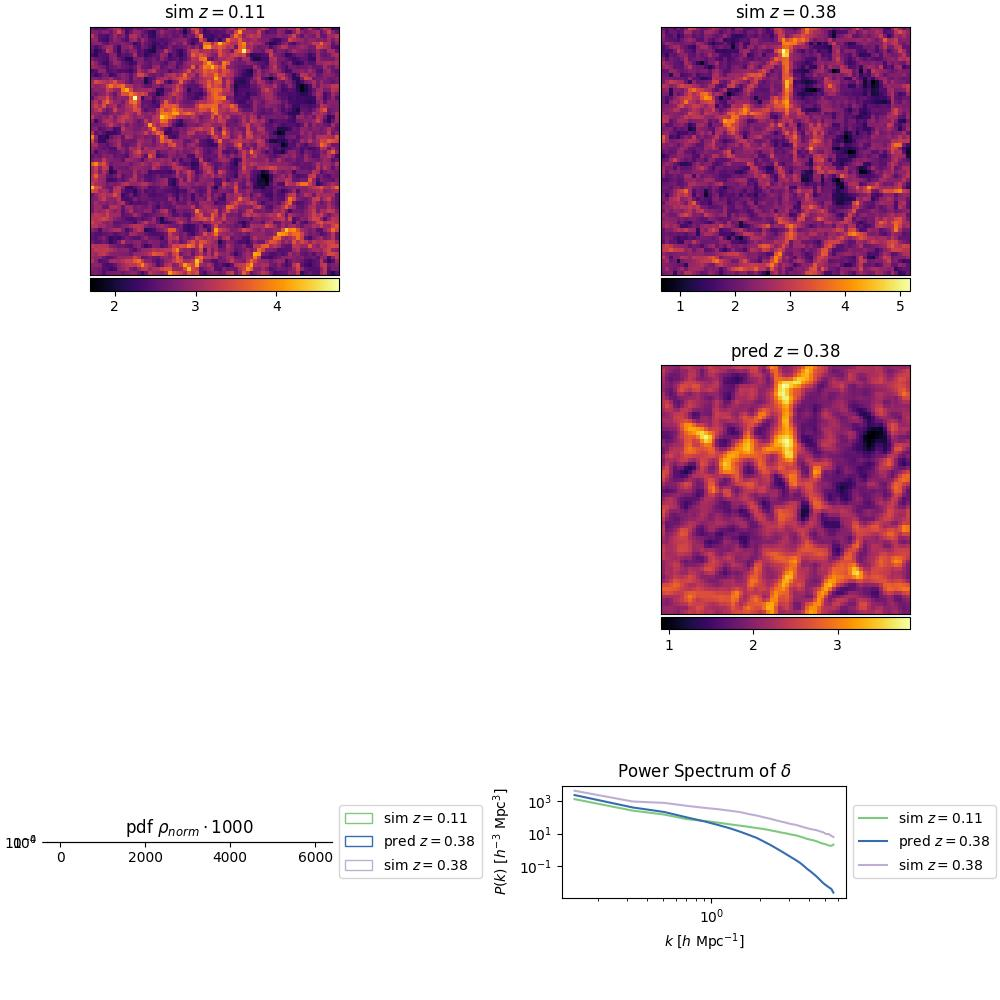
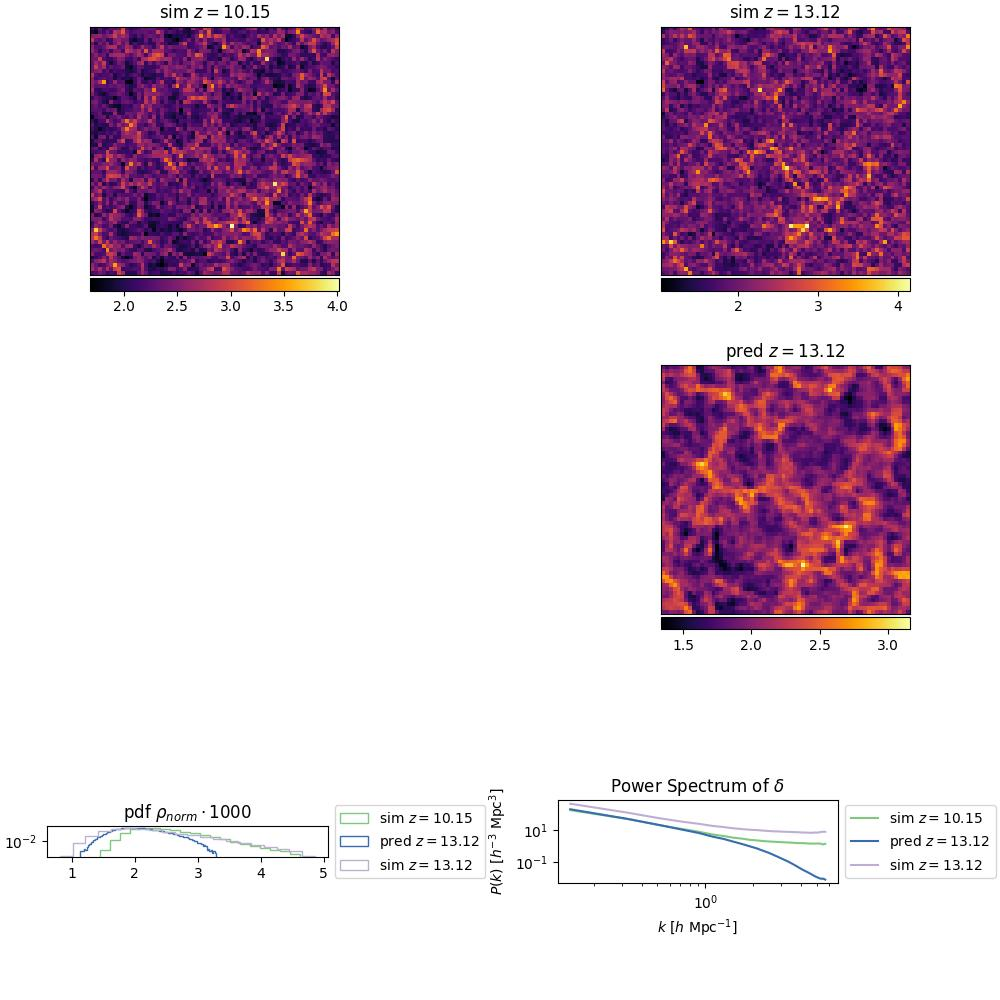
what is the model actually learning?

diff --git a/src/visualize/sequence.py b/src/visualize/sequence.py
@@ -59,7 +59,7 @@ def sequence(
         delta = compute_overdensity(rho)
 
         ax_seq = fig.add_subplot(spec_sequence[0, frame])
-        ax_seq.set_title(fr'sim $z = {to_redshift(step/100):.2f}$')
+        ax_seq.set_title(fr'sim $z = {to_redshift(step/config.total_index_steps):.2f}$')
         ax_seq.tick_params(left=False, bottom=False, labelleft=False, labelbottom=False)
 
         im_seq = ax_seq.imshow(normalized[grid_size // 2, : , :], cmap='inferno')
@@ -68,20 +68,20 @@ def sequence(
         fig.colorbar(im_seq, cax=cax, orientation='horizontal')
 
         ax_cdf.hist(
-            normalized.flatten() * 1000,
+            normalized.flatten(),
             20, 
             density=True, 
             log=True, 
             histtype="step",
             cumulative=False, 
-            label=fr'sim $z = {to_redshift(step/100):.2f}$',
+            label=fr'sim $z = {to_redshift(step/config.total_index_steps):.2f}$',
             color=colors[frame])
         
         p,k = get_power(delta[:, :, :, 0], config.box_size)
         ax_power.plot(
             k, 
             p, 
-            label=fr'sim $z = {to_redshift(step/100):.2f}$',
+            label=fr'sim $z = {to_redshift(step/config.total_index_steps):.2f}$',
             color=colors[frame])
         
         if frame < frames-1:
@@ -98,7 +98,7 @@ def sequence(
 
             ax_seq = fig.add_subplot(spec_sequence[1, frame+1])
             ax_seq.tick_params(left=False, bottom=False, labelleft=False, labelbottom=False)
-            ax_seq.set_title(fr'pred $z = {to_redshift(step/100):.2f}$')
+            ax_seq.set_title(fr'pred $z = {to_redshift(step/config.total_index_steps):.2f}$')
 
             im_seq = ax_seq.imshow(rho_pred_normalized[grid_size // 2, : , :], cmap='inferno')
             divider = make_axes_locatable(ax_seq)
@@ -113,14 +113,14 @@ def sequence(
                 log=True, 
                 histtype="step",
                 cumulative=False, 
-                label=fr'pred $z = {to_redshift(step/100):.2f}$',
+                label=fr'pred $z = {to_redshift(step/config.total_index_steps):.2f}$',
                 color=colors[frame+1 if long else 3 + frame])
             
             axis = ax_power_pred if long else ax_power
             p,k = get_power(delta_pred[:, :, :, 0], config.box_size)
             axis.plot(
                 k, p, 
-                label=fr'pred $z = {to_redshift(step/100):.2f}$',
+                label=fr'pred $z = {to_redshift(step/config.total_index_steps):.2f}$',
                 color=colors[frame+1 if long else 3 + frame])
 
     ax_power.set_yscale('log')

diff --git a/src/visualize/compare.py b/src/visualize/compare.py
@@ -50,6 +50,34 @@ def compare(
     ax_seq.tick_params(left=False, bottom=False, labelleft=False, labelbottom=False)
     im_seq = ax_seq.imshow(normalized[grid_size // 2, :, :], cmap='inferno')
 
+    N = normalized.shape[1]
+    print(normalized.shape)
+    # x shape : n_channels, N, N, N
+    # x_fs shape : n_channels, N, N, N // 2, 2
+
+    norm_fs = jnp.fft.rfftn(normalized, s=(N, N, N), axes=(0, 1, 2))
+    kx = jnp.fft.fftfreq(N)[:, None, None]
+    ky = jnp.fft.fftfreq(N)[None, :, None]
+    kz = jnp.fft.rfftfreq(N)[None, None, :]
+
+    print(norm_fs.shape)
+
+    k_squared = kx**2 + ky**2 + kz**2
+    cutoff_k_squared = (1.0 / 4)**2
+
+    # Mask out higher wavelengths
+    mask = (k_squared <= cutoff_k_squared)[:, :, :, None]
+    # mask = k_squared <= cutoff_k_squared
+    norm_fs_filtered = norm_fs * mask
+
+    # Transform back to real space
+    norm_filtered = jnp.fft.irfftn(norm_fs_filtered, s=(N, N, N), axes=(0, 1, 2))
+
+    ax_seq = fig.add_subplot(spec_sequence[0, 0])
+    ax_seq.set_title(r'$\rho_{norm}$')
+    ax_seq.tick_params(left=False, bottom=False, labelleft=False, labelbottom=False)
+    im_seq = ax_seq.imshow(norm_filtered[grid_size // 2, :, :], cmap='inferno')
+
     p, k = get_power(delta[:, :, :, 0], config.box_size)
     ax_power.plot(
         k,
@@ -89,7 +117,7 @@ def compare(
         ax_seq = fig.add_subplot(spec_sequence[0, idx+1])
         ax_seq.set_title(r'$\delta - \hat{\delta}$')
         ax_seq.tick_params(left=False, bottom=False, labelleft=False, labelbottom=False)
-        im_seq = ax_seq.imshow(delta[grid_size // 2, :, :] - delta_pred[grid_size // 2, :, :], cmap='RdYlBu')
+        im_seq = ax_seq.imshow(normalized[grid_size // 2, :, :] - rho_pred_normalized[grid_size // 2, :, :], cmap='RdYlBu')
         
         divider = make_axes_locatable(ax_seq)
         cax = divider.append_axes('bottom', size='5%', pad=0.03)

diff --git a/src/nn/sequential_model.py b/src/nn/sequential_model.py
@@ -5,7 +5,7 @@ from typing import Callable
 import jax
 from typing import Callable
 import jax.numpy as jnp
-from cosmos import compute_overdensity
+from cosmos import normalize_inv, compute_overdensity, potential
 from functools import partial
 
 class SequentialModel(eqx.Module):
@@ -70,6 +70,7 @@ class SequentialModel(eqx.Module):
 
             for i in range(self.sequence_length):
                 # potential = potential_fn(carry)
+
                 distribution = self.model[i](distribution) if self.unique_networks else self.model(distribution)
                 y = y.at[i].set(distribution[0:1])
                 
@@ -83,6 +84,8 @@ class SequentialModel(eqx.Module):
                 # potential = potential_fn(x[i])
                 
                 if self.sequential_skip_channels > 0:
+                    # rho = normalize_inv(x[i], attributes[i], type="log_growth")
+                    # delta = compute_overdensity(rho)
                     distribution = jnp.concatenate((x[i], secondary_carry), axis=0)
                 else:
                     distribution = x[i]

diff --git a/src/compare_models.py b/src/compare_models.py
@@ -18,6 +18,7 @@ def main(argv) -> None:
 
     # folder = "models/normalization"
     files = os.listdir(folder)
+    files.sort()
 
     inputs = []
     predictions = []
@@ -33,8 +34,8 @@ def main(argv) -> None:
         model, config, _ = nn.load_sequential_model(filename)
 
         # labels.append(config.normalizing_function)
-        labels.append(f"from z{to_redshift((config.file_index_start + config.file_index_stride) / 100):.1f}")
-        print((config.file_index_start + config.file_index_stride) / 100)
+        labels.append(f"from z={to_redshift((config.file_index_start + config.file_index_stride) / 100):.1f}")
+        print((config.file_index_start + config.file_index_stride) / config.total_index_steps)
 
         norm_functions.append(config.normalizing_function)
 

diff --git a/src/cosmos/potential.py b/src/cosmos/potential.py
@@ -12,8 +12,6 @@ class Potential(FrequencyOperation):
             field : jax.Array, 
             G : float = 6.6743 * 10**(-11)):
         
-        print(f"field shape{field.shape}")
-
         potential = jnp.fft.rfftn(
             field,  
             s=(self.n_grid, self.n_grid, self.n_grid), 
